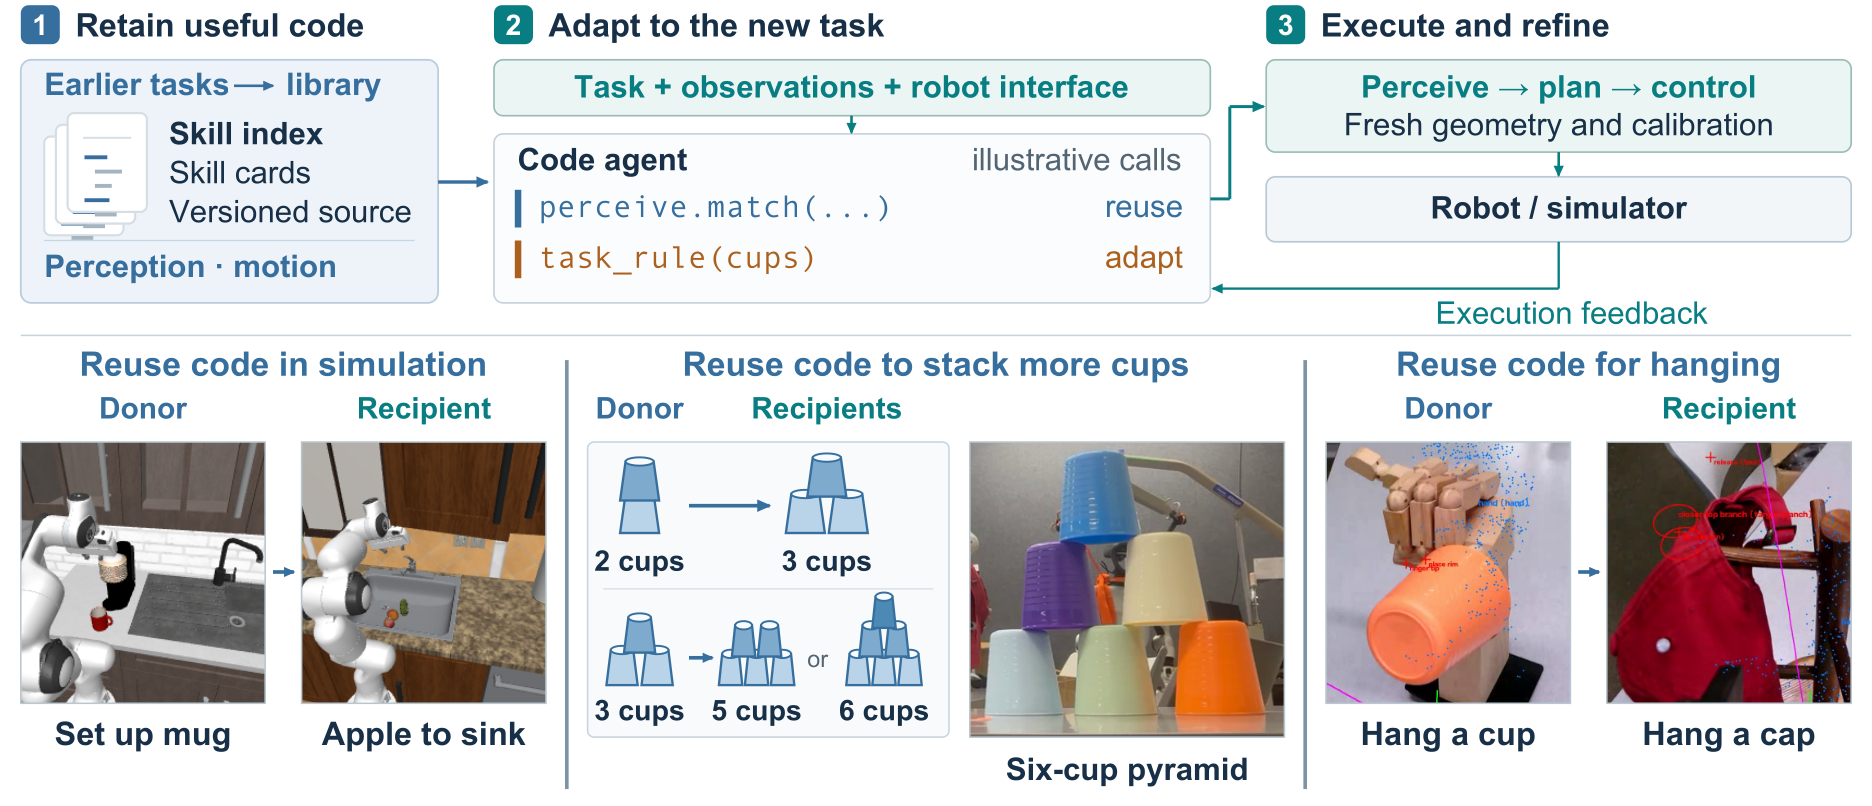
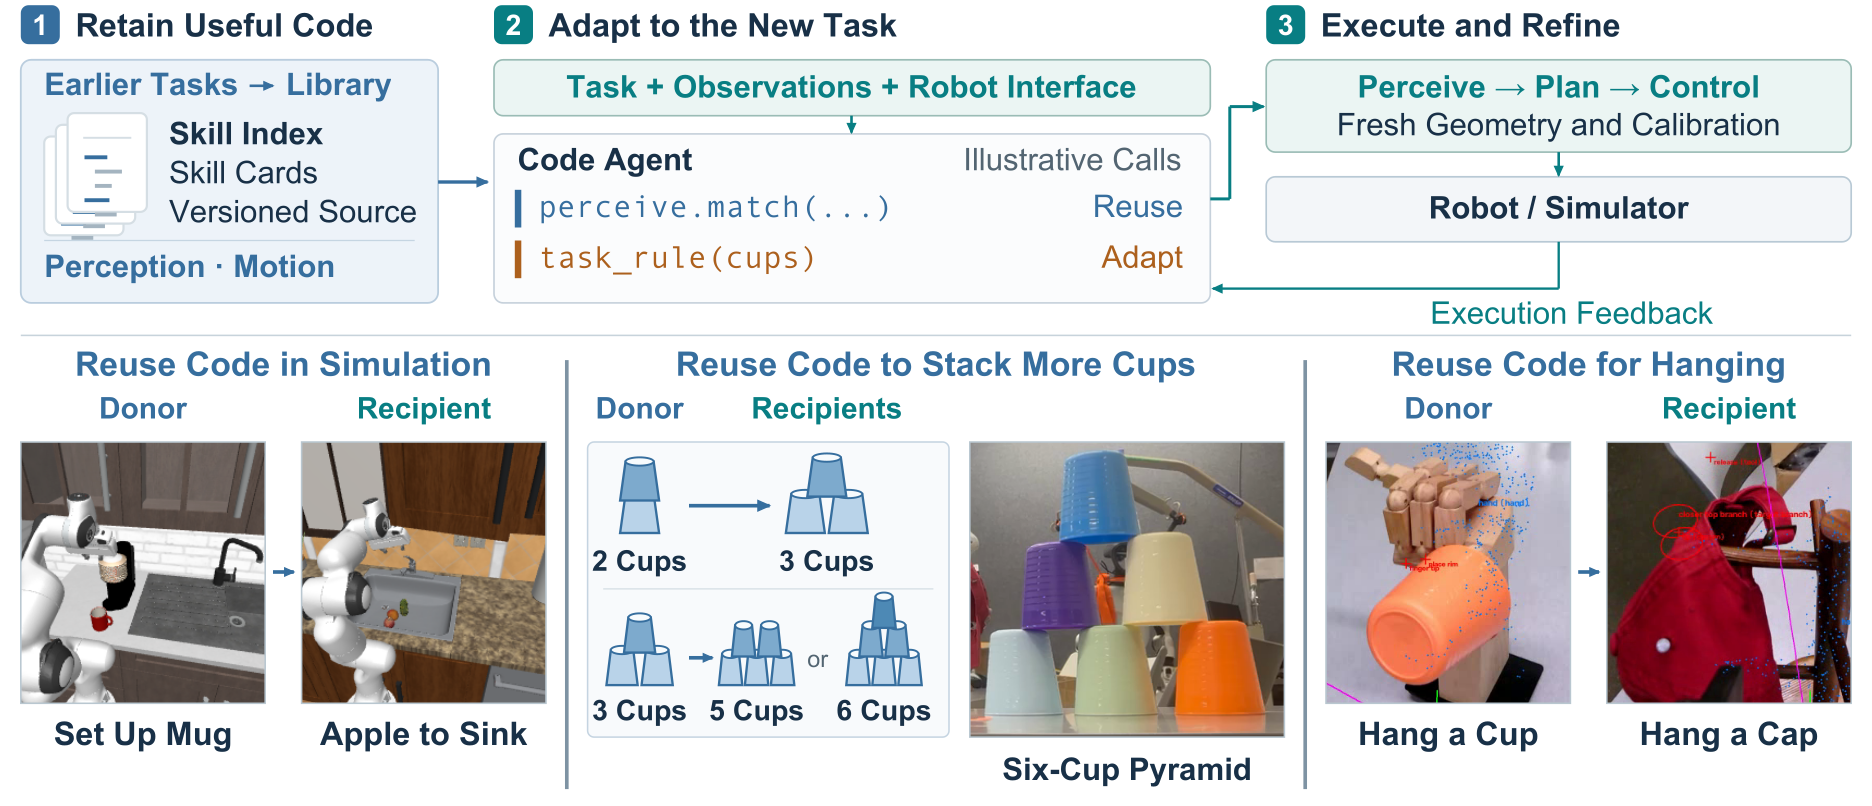
Donor hub for simulation, ranges in both stat rows, updated figure
- Simulation: donor top-middle with arrows to its five recipients and the
  donor "?" note; plain grid on phones
- Stat tiles show ranges in one format (e.g. -14% to -23%); physical keeps
  the paper's means in the line below
- Method figure re-rendered from the updated method.pdf

diff --git a/index.html b/index.html
@@ -130,12 +130,21 @@ figcaption { font-size: 0.9rem; color: var(--muted); margin-top: 10px; text-alig
 .pill b { font-family: var(--font-mono); font-weight: 600; }
 .notes { font-size: 0.82rem; color: var(--muted); margin: 18px auto 0; max-width: 900px; text-align: center; text-wrap: pretty; }
 
-/* Simulation grid: donor first, then the five recipients */
-.sim-grid { display: grid; grid-template-columns: repeat(3, minmax(0, 1fr)); gap: 16px 14px; }
-.sim-grid h4 { margin: 8px 0 0; font-size: 0.95rem; font-weight: 600; }
+/* Simulation hub: the donor top-middle, its five recipients around it, arrows from donor to each */
+.sim-grid { position: relative; display: grid; grid-template-columns: repeat(3, minmax(0, 1fr)); grid-template-areas: "r0 d r1" "r2 r3 r4"; gap: 56px 64px; }
+.sim-grid > .donor { grid-area: d; } .sim-grid > .r0 { grid-area: r0; } .sim-grid > .r1 { grid-area: r1; }
+.sim-grid > .r2 { grid-area: r2; } .sim-grid > .r3 { grid-area: r3; } .sim-grid > .r4 { grid-area: r4; }
+.sim-grid > div { position: relative; z-index: 1; }
+.sim-grid .donor .vid { box-shadow: 0 0 0 3px var(--blue); }
+.sim-grid h4 { position: relative; margin: 8px 0 0; font-size: 0.95rem; font-weight: 600; }
 .sim-grid h4 .tag { font-size: 0.72rem; font-weight: 600; color: #2B5F8A; background: #E4EEF7; border-radius: 999px; padding: 1px 8px; margin-right: 6px; vertical-align: 1px; }
-@media (max-width: 860px) { .sim-grid { grid-template-columns: repeat(2, minmax(0, 1fr)); } }
-@media (max-width: 480px) { .sim-grid { grid-template-columns: 1fr; } }
+.sim-arrows { position: absolute; inset: 0; width: 100%; height: 100%; pointer-events: none; z-index: 0; overflow: visible; }
+.sim-arrows line { stroke: var(--blue); stroke-width: 2; }
+@media (max-width: 860px) {
+  .sim-grid { grid-template-columns: repeat(2, minmax(0, 1fr)); grid-template-areas: "d d" "r0 r1" "r2 r3" "r4 ."; gap: 16px 14px; }
+  .sim-arrows { display: none; }
+}
+@media (max-width: 480px) { .sim-grid { grid-template-columns: 1fr; grid-template-areas: "d" "r0" "r1" "r2" "r3" "r4"; } }
 
 /* Click a video to enlarge it */
 .vid video { cursor: zoom-in; }
@@ -194,7 +203,7 @@ footer { text-align: center; color: var(--muted); font-size: 0.85rem; padding-bl
 <section class="intro">
   <h2>Method</h2>
   <figure>
-    <img src="static/images/method.png?v=3" width="936" height="403" alt="FAR method: retain useful code from earlier tasks in a skill library, adapt it to the new task with a code agent, then execute and refine on the robot or simulator. Examples: reusing code in simulation (set up mug to apple to sink), reusing code to stack more cups (2 to 3 cups, 3 to 5 or 6 cups, a six-cup pyramid), and reusing code for hanging (hang a cup to hang a cap).">
+    <img src="static/images/method.png?v=4" width="936" height="403" alt="FAR method: retain useful code from earlier tasks in a skill library, adapt it to the new task with a code agent, then execute and refine on the robot or simulator. Examples: reusing code in simulation (set up mug to apple to sink), reusing code to stack more cups (2 to 3 cups, 3 to 5 or 6 cups, a six-cup pyramid), and reusing code for hanging (hang a cup to hang a cap).">
     <figcaption>FAR retains hardware-tested code from a donor task, adapts task logic and calibration for a recipient, and refines the program using execution feedback.</figcaption>
   </figure>
   <p class="narrow">Building each robot program from scratch costs agent time and tokens. We let a coding agent reuse tested code from an earlier task on the same robot arm.</p>
@@ -275,6 +284,7 @@ function slot(path, name, label) {
     (name ? '<div class="name">' + name + '</div>' : '') + '<div class="path">' + path + '</div></div></div>';
 }
 function pill(x, what) { return '<span class="pill' + (x < 0 ? ' good' : '') + '"><b>' + pct(x) + '</b> ' + what + '</span>'; }
+function span(lo, hi) { return pct(hi) + ' to ' + pct(lo); }  // e.g. -14% to -23%
 function pct(x) { return (x > 0 ? '+' : '−') + Math.round(Math.abs(x) * 100) + '%'; }
 
 function render(F) {
@@ -285,22 +295,26 @@ function render(F) {
 
   var faster = exps.filter(function (e) { return e.change.minutes < 0; }).length;
   var tile = function (big, label, def) { return '<div class="stat"><span class="big">' + big + '</span><span class="label">' + label + '</span>' + (def ? '<span class="def">' + def + '</span>' : '') + '</div>'; };
+  var lo = function (k) { return Math.min.apply(null, exps.map(function (e) { return e.change[k]; })); };
+  var hi = function (k) { return Math.max.apply(null, exps.map(function (e) { return e.change[k]; })); };
   document.getElementById('stats').innerHTML =
-    tile(pct(F.mean_change.minutes), 'agent time', 'mean of ' + exps.length + ' transfers') +
-    tile(pct(F.mean_change.tokens), 'model tokens', 'mean of ' + exps.length + ' transfers') +
+    tile(span(lo('minutes'), hi('minutes')), 'agent time', 'range across ' + exps.length + ' transfers, mean ' + pct(F.mean_change.minutes)) +
+    tile(span(lo('tokens'), hi('tokens')), 'model tokens', 'range across ' + exps.length + ' transfers, mean ' + pct(F.mean_change.tokens)) +
     tile(faster + '/' + exps.length, 'transfers faster than baseline');
 
   if (F.sim) {
-    var range = function (r) { return '−' + Math.round(-r[1] * 100) + ' to −' + Math.round(-r[0] * 100) + '%'; };
     document.getElementById('sim-stats').innerHTML =
-      tile(range(F.sim.summary.minutes), 'agent time', 'range across ' + F.sim.tasks.length + ' tasks') +
-      tile(range(F.sim.summary.tokens), 'model tokens', 'range across ' + F.sim.tasks.length + ' tasks') +
+      tile(span(F.sim.summary.minutes[0], F.sim.summary.minutes[1]), 'agent time', 'range across ' + F.sim.tasks.length + ' tasks') +
+      tile(span(F.sim.summary.tokens[0], F.sim.summary.tokens[1]), 'model tokens', 'range across ' + F.sim.tasks.length + ' tasks') +
       tile(F.sim.tasks.length + '/' + F.sim.tasks.length, 'transfers faster than baseline');
-    var simTile = function (t, donor) {
-      return '<div><div class="vid" data-label="Simulation · ' + t.name + '"><video data-src="' + t.video + '" poster="' + t.video.replace(/\.mp4$/, '.jpg') +
-        '" muted loop playsinline preload="none"></video><span class="speed">' + F.sim.speed + '×</span></div><h4>' + (donor ? '<span class="tag">Donor</span>' : '') + t.name + '</h4></div>';
+    var simTile = function (t, cls) {
+      return '<div class="' + cls + '"><div class="vid" data-label="Simulation · ' + t.name + '"><video data-src="' + t.video + '" poster="' + t.video.replace(/\.mp4$/, '.jpg') +
+        '" muted loop playsinline preload="none"></video><span class="speed">' + F.sim.speed + '×</span></div><h4>' +
+        (cls === 'donor' ? '<span class="tag">Donor</span>' : '') + t.name + (cls === 'donor' ? q('donor', 'the donor') : '') + '</h4></div>';
     };
-    document.getElementById('sim-grid').innerHTML = simTile(F.sim.donor, true) + F.sim.tasks.map(function (t) { return simTile(t, false); }).join('');
+    document.getElementById('sim-grid').innerHTML = '<svg class="sim-arrows" aria-hidden="true"></svg>' + simTile(F.sim.donor, 'donor') +
+      F.sim.tasks.map(function (t, i) { return simTile(t, 'r' + i); }).join('');
+    simArrows();
   }
 
   function vid(c, label) {
@@ -333,6 +347,28 @@ function render(F) {
       '</article>';
   }).join('');
 }
+// Arrows from the simulation donor to each recipient, edge to edge, redrawn on resize.
+function simArrows() {
+  var grid = document.getElementById('sim-grid'), svg = grid && grid.querySelector('.sim-arrows');
+  if (!svg) return;
+  var g = grid.getBoundingClientRect(), d = grid.querySelector('.donor').getBoundingClientRect();
+  var box = function (r) { return { x: r.left - g.left + r.width / 2, y: r.top - g.top + r.height / 2, w: r.width / 2, h: r.height / 2 }; };
+  var edge = function (b, dx, dy, pad) {  // where the ray from the box centre leaves the box, plus a gap
+    var t = Math.min(dx ? b.w / Math.abs(dx) : Infinity, dy ? b.h / Math.abs(dy) : Infinity), n = Math.hypot(dx, dy);
+    return { x: b.x + dx * t + dx / n * pad, y: b.y + dy * t + dy / n * pad };
+  };
+  var a = box(d), lines = '';
+  grid.querySelectorAll(':scope > [class^="r"]').forEach(function (el) {
+    var b = box(el.getBoundingClientRect()), dx = b.x - a.x, dy = b.y - a.y;
+    var p = edge(a, dx, dy, 6), q = edge(b, -dx, -dy, 8);
+    lines += '<line x1="' + p.x.toFixed(1) + '" y1="' + p.y.toFixed(1) + '" x2="' + q.x.toFixed(1) + '" y2="' + q.y.toFixed(1) + '" marker-end="url(#sim-head)"/>';
+  });
+  svg.innerHTML = '<defs><marker id="sim-head" viewBox="0 0 10 10" refX="9" refY="5" markerWidth="7" markerHeight="7" orient="auto-start-reverse">' +
+    '<path d="M0 0L10 5L0 10z" fill="#3976A8"/></marker></defs>' + lines;
+}
+window.addEventListener('resize', simArrows);
+if (document.fonts) document.fonts.ready.then(simArrows);
+
 // Load and play videos only while on screen. data-optional slots keep their placeholder
 // until a video exists at that path.
 function watchVideos() {
